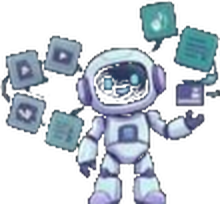
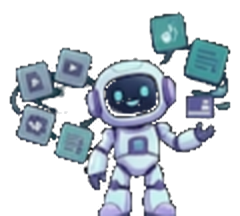
Fix clean mascot cutout without card artifacts and anchor robot to bottom baseline flush with cards

diff --git a/src/components/Upload.css b/src/components/Upload.css
@@ -5575,12 +5575,12 @@ body.dark-theme .upload-showcase-chip:hover {
   font-family: -apple-system, BlinkMacSystemFont, "Segoe UI", Roboto, Inter, Helvetica, Arial, sans-serif !important;
 }
 
-/* Top Row: Left Hero (32%) + Right Dropzone (68%) */
+/* Top Row: Left Hero (33.3% matching Card 1) + Right Dropzone (66.7% matching Card 2 + Card 3) */
 .upload-redesign-top-row {
   display: grid;
-  grid-template-columns: minmax(290px, 1fr) minmax(0, 1.95fr);
-  gap: 28px;
-  align-items: flex-end;
+  grid-template-columns: 1fr 2fr;
+  gap: 14px;
+  align-items: stretch;
   width: 100%;
 }
 
@@ -5597,9 +5597,12 @@ body.dark-theme .upload-showcase-chip:hover {
 .upload-redesign-left-hero {
   display: flex;
   flex-direction: column;
+  justify-content: space-between;
   align-items: flex-start;
-  gap: 8px;
-  padding-bottom: 2px;
+  gap: 6px;
+  padding-bottom: 0px;
+  height: 100%;
+  box-sizing: border-box;
 }
 
 .upload-redesign-left-hero .upload-eyebrow-pill {
@@ -5678,8 +5681,11 @@ body.dark-theme .upload-showcase-chip:hover {
   align-items: flex-end;
   justify-content: space-between;
   width: 100%;
-  margin-top: 4px;
-  gap: 12px;
+  margin-top: auto;
+  padding-top: 6px;
+  margin-bottom: 0px;
+  gap: 10px;
+  position: relative;
 }
 
 .upload-help-toggle-group {
@@ -5688,7 +5694,7 @@ body.dark-theme .upload-showcase-chip:hover {
   gap: 8px;
   cursor: pointer;
   user-select: none;
-  padding-bottom: 4px;
+  padding-bottom: 6px;
 }
 
 /* Toggle Switch Pill */
@@ -5766,14 +5772,17 @@ body.dark-theme .upload-showcase-chip:hover {
   align-items: flex-end;
   justify-content: flex-end;
   max-width: 130px;
+  position: relative;
+  margin-bottom: -1px; /* Sits flush touching Card 1 border */
 }
 
 .upload-hero-mascot-img {
-  width: 100%;
-  max-width: 120px;
+  width: 125px;
+  max-width: 125px;
   height: auto;
+  display: block;
   object-fit: contain;
-  filter: drop-shadow(0 8px 16px rgba(0, 0, 0, 0.45));
+  filter: drop-shadow(0 4px 10px rgba(0, 0, 0, 0.45));
 }
 
 /* ==========================================================================
@@ -6087,7 +6096,7 @@ body.dark-theme .upload-showcase-chip:hover {
   padding-right: 6px;
   font-size: 11.5px;
   font-weight: 500;
-  margin-top: 2px;
+  margin-top: 6px;
 }
 
 @media (max-width: 768px) {
@@ -6134,8 +6143,8 @@ body.dark-theme .upload-showcase-chip:hover {
 .upload-help-cards-grid {
   display: grid;
   grid-template-columns: repeat(3, 1fr);
-  gap: 12px;
-  margin-top: 4px;
+  gap: 14px;
+  margin-top: 0px;
   animation: fadeInHelpCards 0.2s ease-out;
 }
 

diff --git a/src/components/Upload.jsx b/src/components/Upload.jsx
@@ -2396,7 +2396,7 @@ export default function Upload({
 
                     <div className="upload-hero-mascot-wrap">
                       <img
-                        src="/assets/upload_mascot_cards.png"
+                        src="/assets/upload_mascot_clean.png?v=3"
                         alt="AI Mascot"
                         className="upload-hero-mascot-img"
                       />
@@ -2529,22 +2529,22 @@ export default function Upload({
                       </div>
                     )}
                   </div>
-                </div>
-              </div>
 
-              {/* Footer Trust Links Row */}
-              <div className="upload-footer-trust-row">
-                <div className="upload-trust-item">
-                  <i className="fa-regular fa-user"></i>
-                  <span>Private account library</span>
-                </div>
-                <div className="upload-trust-item">
-                  <span className="upload-trust-glyph">文A</span>
-                  <span>68 translation languages</span>
-                </div>
-                <div className="upload-trust-item">
-                  <i className="fa-regular fa-comment-dots"></i>
-                  <span>Ask AI about your file</span>
+                  {/* Footer Trust Links Row (Directly under dropzone card on right) */}
+                  <div className="upload-footer-trust-row">
+                    <div className="upload-trust-item">
+                      <i className="fa-regular fa-user"></i>
+                      <span>Private account library</span>
+                    </div>
+                    <div className="upload-trust-item">
+                      <span className="upload-trust-glyph">文A</span>
+                      <span>68 translation languages</span>
+                    </div>
+                    <div className="upload-trust-item">
+                      <i className="fa-regular fa-comment-dots"></i>
+                      <span>Ask AI about your file</span>
+                    </div>
+                  </div>
                 </div>
               </div>
 
